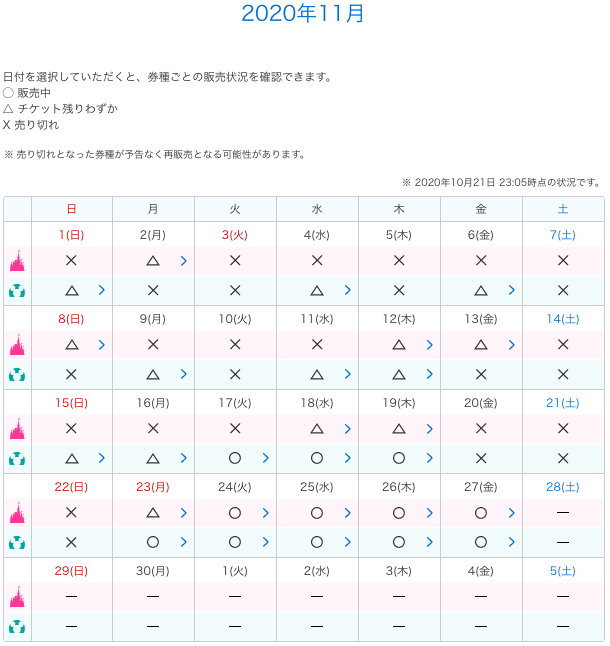
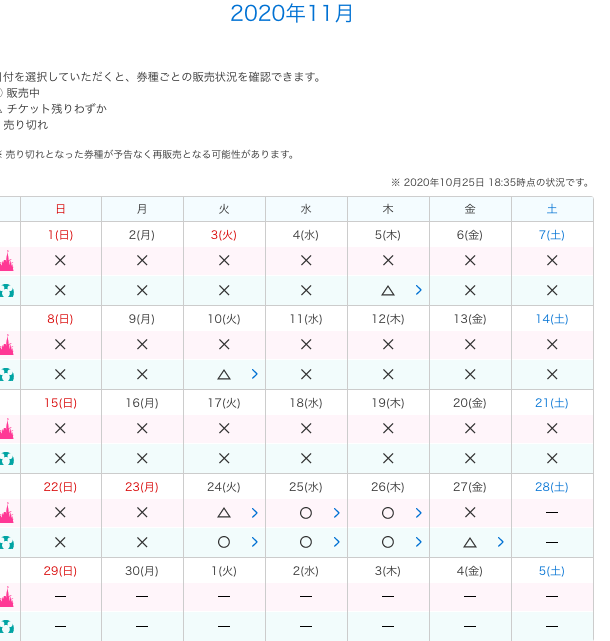
add func(open available date in detail) halfway

diff --git a/screenshot/screenshot.py b/screenshot/screenshot.py
@@ -43,6 +43,9 @@ class Ticket(RestaurantPage):
         self.ds_circle_num = 0
         self.ds_few_num = 0
 
+        self.dl_available_url = []
+        self.ds_available_url = []
+
     def get_info(self):
         self.driver.get(ticket_url.format(self.day))
 
@@ -74,6 +77,10 @@ class Ticket(RestaurantPage):
                 l_date = self.driver.find_element_by_css_selector('h3.heading3')
                 date_num = re.findall(r'\d+', l_date.text)
                 self.l_total_date += '{} '.format(date_num[2])
+                # get_url
+                btn = self.driver.find_element_by_css_selector('a.ticket-url')
+                available_url = btn.get_attribute('href')
+                self.dl_available_url = available_url
                 # close modal
                 mdl = self.driver.find_element_by_css_selector(
                     'div.modalContent')
@@ -108,6 +115,9 @@ class Ticket(RestaurantPage):
                 s_date = self.driver.find_element_by_css_selector('h3.heading3')
                 date_num = re.findall(r'\d+', s_date.text)
                 self.s_total_date += '{} '.format(date_num[2])
+                # get_url
+                btn = self.driver.find_element_by_css_selector('a.ticket-url')
+                self.ds_available_url.append(btn.get_attribute('href'))
                 # close modal
                 mdl = self.driver.find_element_by_css_selector(
                     'div.modalContent')
@@ -161,7 +171,42 @@ class Ticket(RestaurantPage):
 
         # screenshot and save
         self.driver.save_screenshot(FILENAME)
-        self.driver.quit()
+
+    def search_available(self):
+        times = 0
+        for url in self.ds_available_url:
+            times += 1
+            self.driver.get(url)
+            time.sleep(1)
+            caution = self.driver.find_elements_by_css_selector('p.text-caution')
+            if len(caution) == 3:
+                pass
+            else:
+                # ticket_list = self.driver.find_element_by_css_selector('ul.list-card')
+                cards = self.driver.find_elements_by_css_selector('div.search-ticket-card')
+                for card in cards:
+                    title = card.find_element_by_css_selector('h4.heading-cont-top')
+                    print(title.text)
+                    card.click()
+                    # d_d = self.driver.find_element_by_css_selector(
+                    #     'search-1day-time-01.pgh-note')
+
+                    # d_btn = self.driver.find_element_by_css_selector(
+                    #     'search-1day-01.button'
+                    # )
+                    # d_s = self.driver.find_element_by_css_selector(
+                    #     'span.search-1day-time-02')
+                    time.sleep(2)
+                    # print(d_d.text)
+                    # print(d_btn.text)
+                    # print(d_s.text)
+                    time.sleep(2)
+                    back = self.driver.find_element_by_css_selector('a.search-slide-back')
+                    back.click()
+                    time.sleep(2)
+            time.sleep(2)
+            if len(self.ds_available_url) == times:
+                self.driver.quit()
 
     def set_message(self):
         # set a message for line(TDR)
@@ -179,6 +224,7 @@ class Ticket(RestaurantPage):
 
         if self.l_total_date:
             self.l_date_state = '日付: {}'.format(self.l_total_date)
+
 
         # set a message for line(TDS)R
         if self.ds_available_day > 0:
@@ -227,27 +273,28 @@ class Ticket(RestaurantPage):
 #     time.sleep(2)
 
 # ticket for this month
-ticket1 = Ticket('11')
-ticket1.get_info()
-ticket1.take_pic()
-ticket1.set_message()
-ticket1.set_picture()
-ticket1.send_line()
-
-time.sleep(1)
+# ticket1 = Ticket('10')
+# ticket1.get_info()
+# ticket1.take_pic()
+# ticket1.set_message()
+# ticket1.set_picture()
+# ticket1.send_line()
+#
+# time.sleep(1)
 
 
 # ticket for next month
-# ticket2 = Ticket('11')
-# ticket2.get_info()
-# ticket2.take_pic()
-# ticket2.set_message()
-# ticket2.set_picture()
-# ticket2.send_line()
+ticket2 = Ticket('11')
+ticket2.get_info()
+ticket2.take_pic()
+ticket2.search_available()
+ticket2.set_message()
+ticket2.set_picture()
+ticket2.send_line()
 
 # time.sleep(1)
 #
-# Restaurant for this month only
+# # # Restaurant for this month only
 # restaurant = RestaurantPage('19', 11, 'ラ・タベルヌ・ド・ガストン')
 # restaurant.search_restaurant()
 # restaurant.take_pic()
